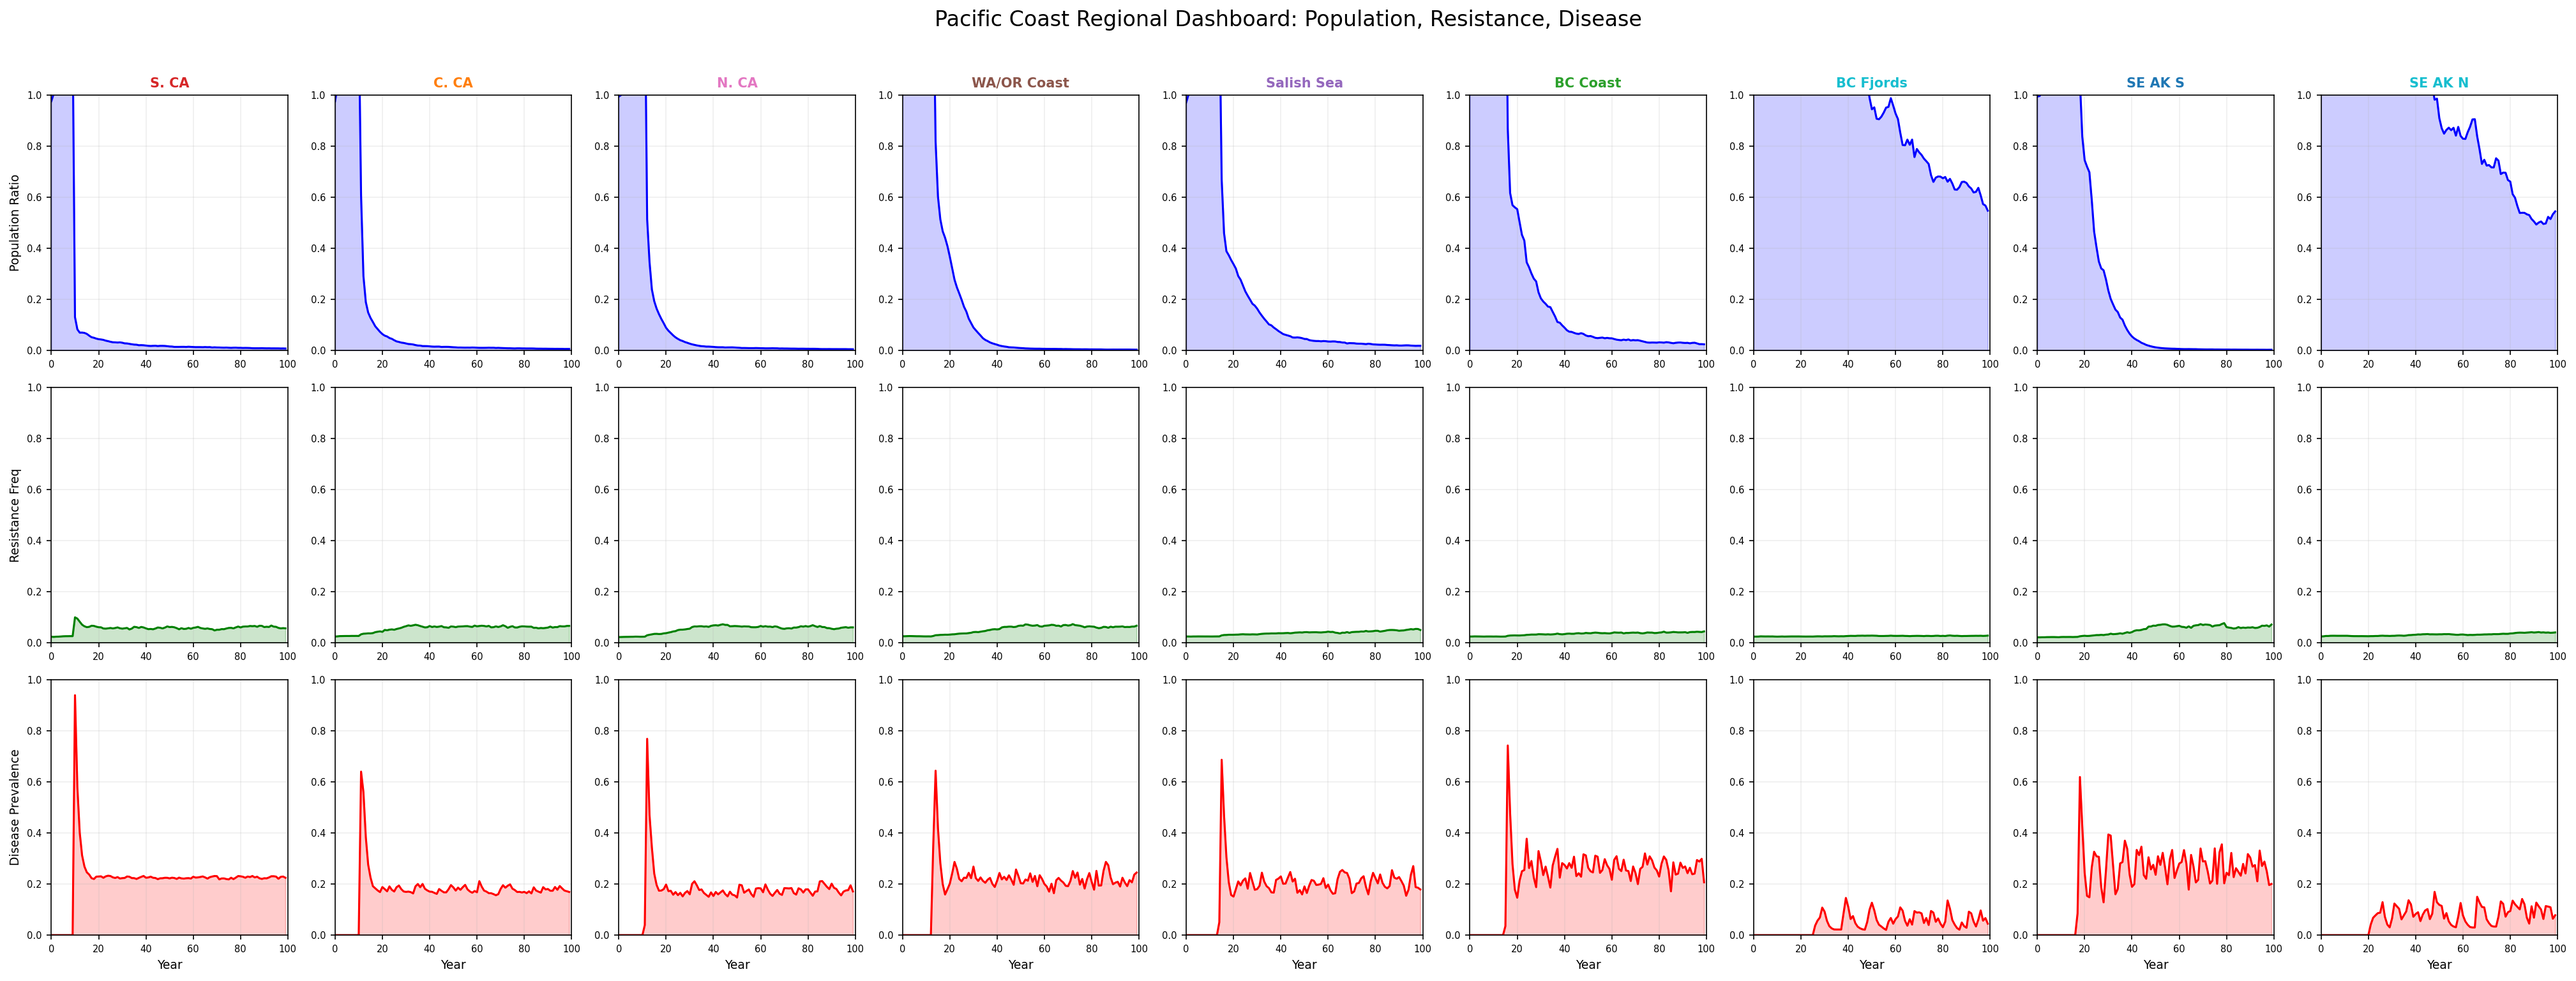
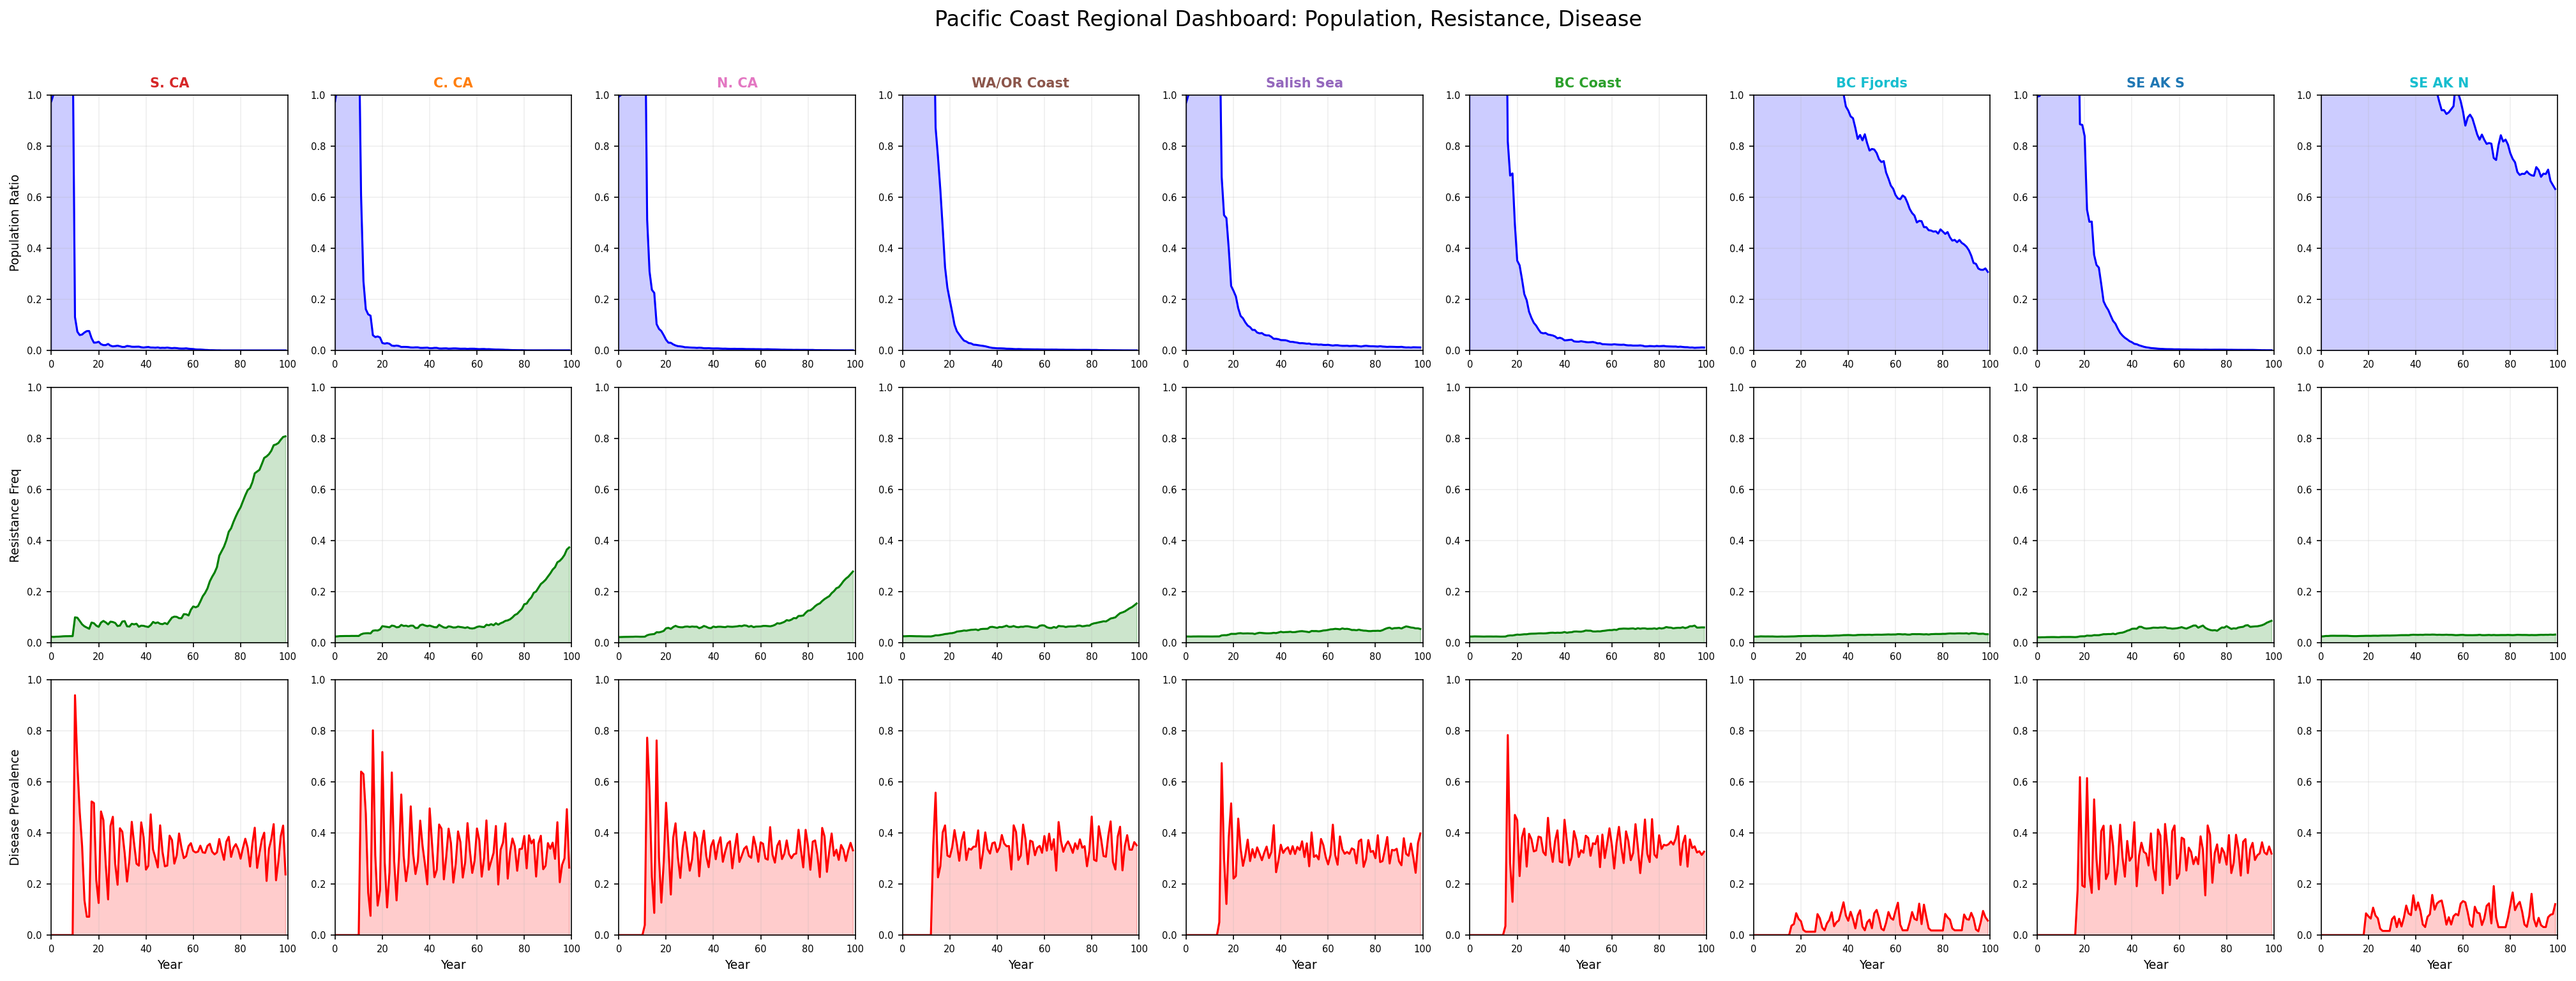
fix: acute disease model (3yr outbreak then subsides, endemic 3%)

diff --git a/pycnopodia/pacific_coast.py b/pycnopodia/pacific_coast.py
@@ -211,7 +211,8 @@ class PacificCoastConfig:
     # Alaska (cold) keeps ~40%, BC Fjords (refugia) ~50%, south ~0%
     disease_base_mortality: float = 0.85  # Base per-year mortality at threshold temp (acute phase)
     disease_transmission_rate: float = 0.60
-    disease_endemic_prevalence: float = 0.15
+    disease_endemic_prevalence: float = 0.03  # Low background after acute phase
+    disease_acute_years: int = 3  # Acute outbreak lasts ~3 years
     
     # Disease origin - Southern CA (warmest, southernmost)
     disease_origin_region: str = "s_california"
@@ -882,17 +883,26 @@ class PacificCoastSimulation:
                     if self.rng.random() < infection_prob:
                         new_prevalence[i] = 0.80 + self.rng.uniform(0, 0.15)
                 else:
-                    # Decay toward endemic level (temperature-dependent)
-                    # Cold water → lower endemic prevalence
+                    # Decay toward endemic level
+                    # After acute phase, disease drops rapidly
+                    years_since_onset = year - self.config.disease_onset_year
                     temp_mod = get_temperature_spread_modifier(
                         self.temperatures[i], self.config
                     )
                     endemic = self.config.disease_endemic_prevalence * temp_mod
                     current = self.disease_prevalence[i]
-                    target = endemic + (current - endemic) * 0.5  # Fast decay (SSWD was acute)
+                    
+                    if years_since_onset <= self.config.disease_acute_years:
+                        # During acute phase: slow decay (disease raging)
+                        decay_rate = 0.3
+                    else:
+                        # Post-acute: disease subsides rapidly
+                        decay_rate = 0.7
+                    
+                    target = endemic + (current - endemic) * (1 - decay_rate)
                     new_prevalence[i] = np.clip(
-                        target + self.rng.normal(0, 0.02),
-                        endemic * 0.5, 0.95
+                        target + self.rng.normal(0, 0.01),
+                        0.0, 0.95
                     )
         
         self.disease_prevalence = new_prevalence
